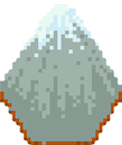
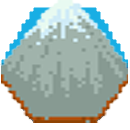
Oceans Implemented

diff --git a/GUI_20212022_Z6O9JF/Logic/ControlLogic.cs b/GUI_20212022_Z6O9JF/Logic/ControlLogic.cs
@@ -21,17 +21,9 @@ namespace GUI_20212022_Z6O9JF.Logic
         public void Polygon_MouseRightButtonDown(object sender, System.Windows.Input.MouseButtonEventArgs e)
         {
             Polygon polygon = sender as Polygon;
-            if (gameLogic.Players.Where(t => t.PlayerID == gameLogic.ClientID).FirstOrDefault().Faction == Faction.Viking)
+            if ((polygon.Tag as HexagonTile).FieldType != FieldType.ocean)
             {
-                if (SelectedPolygon != null && SelectedPolygon != polygon)
-                {
-                    gameLogic.MoveUnit(polygon.Tag as HexagonTile);
-                    ClearSelections();
-                }
-            }
-            else
-            {
-                if ((polygon.Tag as HexagonTile).FieldType != FieldType.water)
+                if (gameLogic.Players.Where(t => t.PlayerID == gameLogic.ClientID).FirstOrDefault().Faction == Faction.Viking)
                 {
                     if (SelectedPolygon != null && SelectedPolygon != polygon)
                     {
@@ -39,38 +31,27 @@ namespace GUI_20212022_Z6O9JF.Logic
                         ClearSelections();
                     }
                 }
+                else
+                {
+                    if ((polygon.Tag as HexagonTile).FieldType != FieldType.lake)
+                    {
+                        if (SelectedPolygon != null && SelectedPolygon != polygon)
+                        {
+                            gameLogic.MoveUnit(polygon.Tag as HexagonTile);
+                            ClearSelections();
+                        }
+                    }
+                }
             }
+
 
         }
         public void Polygon_MouseLeftButtonDown(object sender, System.Windows.Input.MouseButtonEventArgs e)
         {
             Polygon polygon = (sender as Polygon);
-            if (gameLogic.Players.Where(t => t.PlayerID == gameLogic.ClientID).FirstOrDefault().Faction == Faction.Viking)
+            if ((polygon.Tag as HexagonTile).FieldType != FieldType.ocean)
             {
-                if ((polygon.Tag as HexagonTile).OwnerId == gameLogic.ClientID || (polygon.Tag as HexagonTile).OwnerId == 0)
-                {
-                    ClearSelections();
-
-                    PolygonBorderBrush(polygon);
-
-                    if ((polygon.Tag as HexagonTile).Objects.Where(t => t.CanMove).ToList().Count != 0)
-                    {
-                        foreach (var item in (polygon.Tag as HexagonTile).NeighborCoords())
-                        {
-                            Polygon thisPoly = grid.Children[gameLogic.GameMap[item.X, item.Y].ParentId] as Polygon;
-                            if (gameLogic.GameMap[item.X, item.Y].FieldType != FieldType.water)
-                            {
-                                PolygonBorderBrush(thisPoly);
-                            }
-                        }
-                    }
-                    SelectedPolygon = polygon;
-                    gameLogic.SelectedHexagonTile = SelectedPolygon.Tag as HexagonTile;
-                }
-            }
-            else
-            {
-                if ((polygon.Tag as HexagonTile).FieldType != FieldType.water)
+                if (gameLogic.Players.Where(t => t.PlayerID == gameLogic.ClientID).FirstOrDefault().Faction == Faction.Viking)
                 {
                     if ((polygon.Tag as HexagonTile).OwnerId == gameLogic.ClientID || (polygon.Tag as HexagonTile).OwnerId == 0)
                     {
@@ -83,7 +64,7 @@ namespace GUI_20212022_Z6O9JF.Logic
                             foreach (var item in (polygon.Tag as HexagonTile).NeighborCoords())
                             {
                                 Polygon thisPoly = grid.Children[gameLogic.GameMap[item.X, item.Y].ParentId] as Polygon;
-                                if (gameLogic.GameMap[item.X, item.Y].FieldType != FieldType.water)
+                                if (gameLogic.GameMap[item.X, item.Y].FieldType != FieldType.ocean)
                                 {
                                     PolygonBorderBrush(thisPoly);
                                 }
@@ -93,28 +74,59 @@ namespace GUI_20212022_Z6O9JF.Logic
                         gameLogic.SelectedHexagonTile = SelectedPolygon.Tag as HexagonTile;
                     }
                 }
+                else
+                {
+                    if ((polygon.Tag as HexagonTile).FieldType != FieldType.lake)
+                    {
+                        if ((polygon.Tag as HexagonTile).OwnerId == gameLogic.ClientID || (polygon.Tag as HexagonTile).OwnerId == 0)
+                        {
+                            ClearSelections();
+
+                            PolygonBorderBrush(polygon);
+
+                            if ((polygon.Tag as HexagonTile).Objects.Where(t => t.CanMove).ToList().Count != 0)
+                            {
+                                foreach (var item in (polygon.Tag as HexagonTile).NeighborCoords())
+                                {
+                                    Polygon thisPoly = grid.Children[gameLogic.GameMap[item.X, item.Y].ParentId] as Polygon;
+                                    if (gameLogic.GameMap[item.X, item.Y].FieldType != FieldType.lake && gameLogic.GameMap[item.X, item.Y].FieldType != FieldType.ocean)
+                                    {
+                                        PolygonBorderBrush(thisPoly);
+                                    }
+                                }
+                            }
+                            SelectedPolygon = polygon;
+                            gameLogic.SelectedHexagonTile = SelectedPolygon.Tag as HexagonTile;
+                        }
+                    }
+                }
             }
+
         }
         public void Polygon_MouseLeave(object sender, System.Windows.Input.MouseEventArgs e)
         {
             Polygon polygon = sender as Polygon;
-            if (gameLogic.Players.Where(t => t.PlayerID == gameLogic.ClientID).FirstOrDefault().Faction == Faction.Viking)
+            if ((polygon.Tag as HexagonTile).FieldType != FieldType.ocean)
             {
-                if (SelectedPolygon != polygon)
-                {
-                    polygon.Stroke = currentColor;
-                }
-            }
-            else
-            {
-                if ((polygon.Tag as HexagonTile).FieldType != FieldType.water)
+                if (gameLogic.Players.Where(t => t.PlayerID == gameLogic.ClientID).FirstOrDefault().Faction == Faction.Viking)
                 {
                     if (SelectedPolygon != polygon)
                     {
                         polygon.Stroke = currentColor;
                     }
                 }
+                else
+                {
+                    if ((polygon.Tag as HexagonTile).FieldType != FieldType.lake)
+                    {
+                        if (SelectedPolygon != polygon)
+                        {
+                            polygon.Stroke = currentColor;
+                        }
+                    }
+                }
             }
+
 
         }
 
@@ -122,17 +134,9 @@ namespace GUI_20212022_Z6O9JF.Logic
         public void Polygon_MouseEnter(object sender, System.Windows.Input.MouseEventArgs e)
         {
             Polygon polygon = sender as Polygon;
-            if (gameLogic.Players.Where(t => t.PlayerID == gameLogic.ClientID).FirstOrDefault().Faction == Faction.Viking)
+            if ((polygon.Tag as HexagonTile).FieldType != FieldType.ocean)
             {
-                if (SelectedPolygon != polygon)
-                {
-                    currentColor = polygon.Stroke;
-                    polygon.Stroke = Brushes.White;
-                }
-            }
-            else
-            {
-                if ((polygon.Tag as HexagonTile).FieldType != FieldType.water)
+                if (gameLogic.Players.Where(t => t.PlayerID == gameLogic.ClientID).FirstOrDefault().Faction == Faction.Viking)
                 {
                     if (SelectedPolygon != polygon)
                     {
@@ -140,7 +144,19 @@ namespace GUI_20212022_Z6O9JF.Logic
                         polygon.Stroke = Brushes.White;
                     }
                 }
+                else
+                {
+                    if ((polygon.Tag as HexagonTile).FieldType != FieldType.lake)
+                    {
+                        if (SelectedPolygon != polygon)
+                        {
+                            currentColor = polygon.Stroke;
+                            polygon.Stroke = Brushes.White;
+                        }
+                    }
+                }
             }
+
 
         }
         void ClearSelections()

diff --git a/GUI_20212022_Z6O9JF/Renderer/Display.cs b/GUI_20212022_Z6O9JF/Renderer/Display.cs
@@ -87,10 +87,10 @@ namespace GUI_20212022_Z6O9JF.Renderer
                             random = new Random();
                             switch (gameLogic.GameMap[i, j].FieldType)
                             {
-                                case FieldType.field:
-                                    drawingContext.DrawRectangle(new ImageBrush(new BitmapImage(new Uri("Resources/Images/Map/field.png", UriKind.RelativeOrAbsolute))), new Pen(Brushes.Black, 0), rect);
+                                case FieldType.grass:
+                                    drawingContext.DrawRectangle(new ImageBrush(new BitmapImage(new Uri($"Resources/Images/Map/grass.png", UriKind.RelativeOrAbsolute))), new Pen(Brushes.Black, 0), rect);
                                     break;
-                                case FieldType.water:
+                                case FieldType.ocean:
                                     if (gif < 30)
                                     {
                                         drawingContext.DrawRectangle(new ImageBrush(new BitmapImage(new Uri("Resources/Images/Map/water.png", UriKind.RelativeOrAbsolute))), new Pen(Brushes.Black, 0), rect);
@@ -100,20 +100,27 @@ namespace GUI_20212022_Z6O9JF.Renderer
                                         drawingContext.DrawRectangle(new ImageBrush(new BitmapImage(new Uri("Resources/Images/Map/water2.png", UriKind.RelativeOrAbsolute))), new Pen(Brushes.Black, 0), rect);
                                     }
                                     break;
-                                case FieldType.village:
-                                    drawingContext.DrawRectangle(Brushes.Green, new Pen(Brushes.Black, 1), rect);
+                                case FieldType.lake:
+                                    if (gif < 30)
+                                    {
+                                        drawingContext.DrawRectangle(new ImageBrush(new BitmapImage(new Uri("Resources/Images/Map/water.png", UriKind.RelativeOrAbsolute))), new Pen(Brushes.Black, 0), rect);
+                                    }
+                                    else
+                                    {
+                                        drawingContext.DrawRectangle(new ImageBrush(new BitmapImage(new Uri("Resources/Images/Map/water2.png", UriKind.RelativeOrAbsolute))), new Pen(Brushes.Black, 0), rect);
+                                    }
                                     break;
-                                case FieldType.hill:
-                                    drawingContext.DrawRectangle(new ImageBrush(new BitmapImage(new Uri("Resources/Images/Map/mountain_water.png", UriKind.RelativeOrAbsolute))), new Pen(Brushes.Black, 0), rect);
+                                case FieldType.mountain:
+                                    drawingContext.DrawRectangle(new ImageBrush(new BitmapImage(new Uri("Resources/Images/Map/mountain.png", UriKind.RelativeOrAbsolute))), new Pen(Brushes.Black, 0), rect);
                                     break;
                                 case FieldType.forest:
-                                    drawingContext.DrawRectangle(new ImageBrush(new BitmapImage(new Uri("Resources/Images/Map/wood.png", UriKind.RelativeOrAbsolute))), new Pen(Brushes.Black, 0), rect);
+                                    drawingContext.DrawRectangle(new ImageBrush(new BitmapImage(new Uri("Resources/Images/Map/forest.png", UriKind.RelativeOrAbsolute))), new Pen(Brushes.Black, 0), rect);
                                     break;
                                 case FieldType.wheat:
-                                    drawingContext.DrawRectangle(new ImageBrush(new BitmapImage(new Uri("Resources/Images/Map/food.png", UriKind.RelativeOrAbsolute))), new Pen(Brushes.Black, 0), rect);
+                                    drawingContext.DrawRectangle(new ImageBrush(new BitmapImage(new Uri("Resources/Images/Map/wheat.png", UriKind.RelativeOrAbsolute))), new Pen(Brushes.Black, 0), rect);
                                     break;
                                 case FieldType.goldMine:
-                                    drawingContext.DrawRectangle(new ImageBrush(new BitmapImage(new Uri("Resources/Images/Map/gold_mine.png", UriKind.RelativeOrAbsolute))), new Pen(Brushes.Black, 0), rect);
+                                    drawingContext.DrawRectangle(new ImageBrush(new BitmapImage(new Uri("Resources/Images/Map/goldMine.png", UriKind.RelativeOrAbsolute))), new Pen(Brushes.Black, 0), rect);
                                     break;
                                 default:
                                     break;

diff --git a/GUI_20212022_Z6O9JF/Logic/GameLogic.cs b/GUI_20212022_Z6O9JF/Logic/GameLogic.cs
@@ -61,23 +61,26 @@ namespace GUI_20212022_Z6O9JF.Logic
                     map[i, j].Position[1] = j;
                     switch (lines[i + 2][j])
                     {
-                        case 'm':
-                            map[i, j].FieldType = FieldType.field;
+                        case 'g':
+                            map[i, j].FieldType = FieldType.grass;
                             break;
-                        case 'v':
-                            map[i, j].FieldType = FieldType.water;
+                        case 'l':
+                            map[i, j].FieldType = FieldType.lake;
                             break;
-                        case 'e':
+                        case 'f':
                             map[i, j].FieldType = FieldType.forest;
                             break;
-                        case 'h':
-                            map[i, j].FieldType = FieldType.hill;
+                        case 'm':
+                            map[i, j].FieldType = FieldType.mountain;
                             break;
-                        case 'b':
+                        case 'w':
                             map[i, j].FieldType = FieldType.wheat;
                             break;
-                        case 'A':
+                        case 'G':
                             map[i, j].FieldType = FieldType.goldMine;
+                            break;
+                        case 'o':
+                            map[i, j].FieldType = FieldType.ocean;
                             break;
                         default:
                             break;
@@ -173,7 +176,7 @@ namespace GUI_20212022_Z6O9JF.Logic
         }
         public void AddVillage()
         {
-            if (SelectedHexagonTile != null && SelectedHexagonTile.FieldType == FieldType.field
+            if (SelectedHexagonTile != null && SelectedHexagonTile.FieldType == FieldType.grass
                 && SelectedHexagonTile.Objects.Where(t => t.CanMove == false).ToList().Count == 0)
             {
                 if (SelectedHexagonTile.OwnerId == ClientID || SelectedHexagonTile.OwnerId == 0)

diff --git a/GUI_20212022_Z6O9JF/Models/HexagonTile.cs b/GUI_20212022_Z6O9JF/Models/HexagonTile.cs
@@ -4,7 +4,7 @@ using System.Drawing;
 namespace GUI_20212022_Z6O9JF.Models
 {
 
-    public enum FieldType { field, water, village, hill, forest, wheat, goldMine }
+    public enum FieldType { grass, lake, mountain, forest, wheat, goldMine,ocean }
     public class HexagonTile
     {
         public int ParentId { get; set; }
